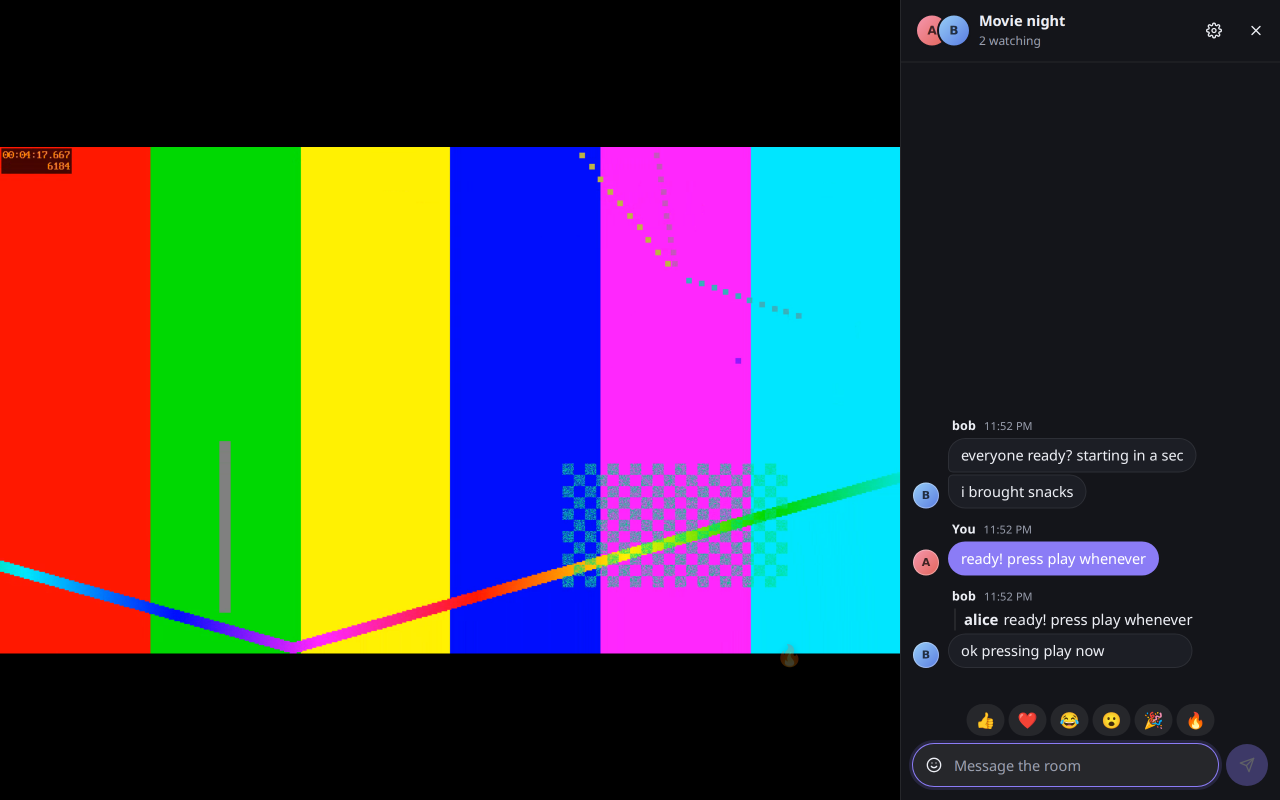
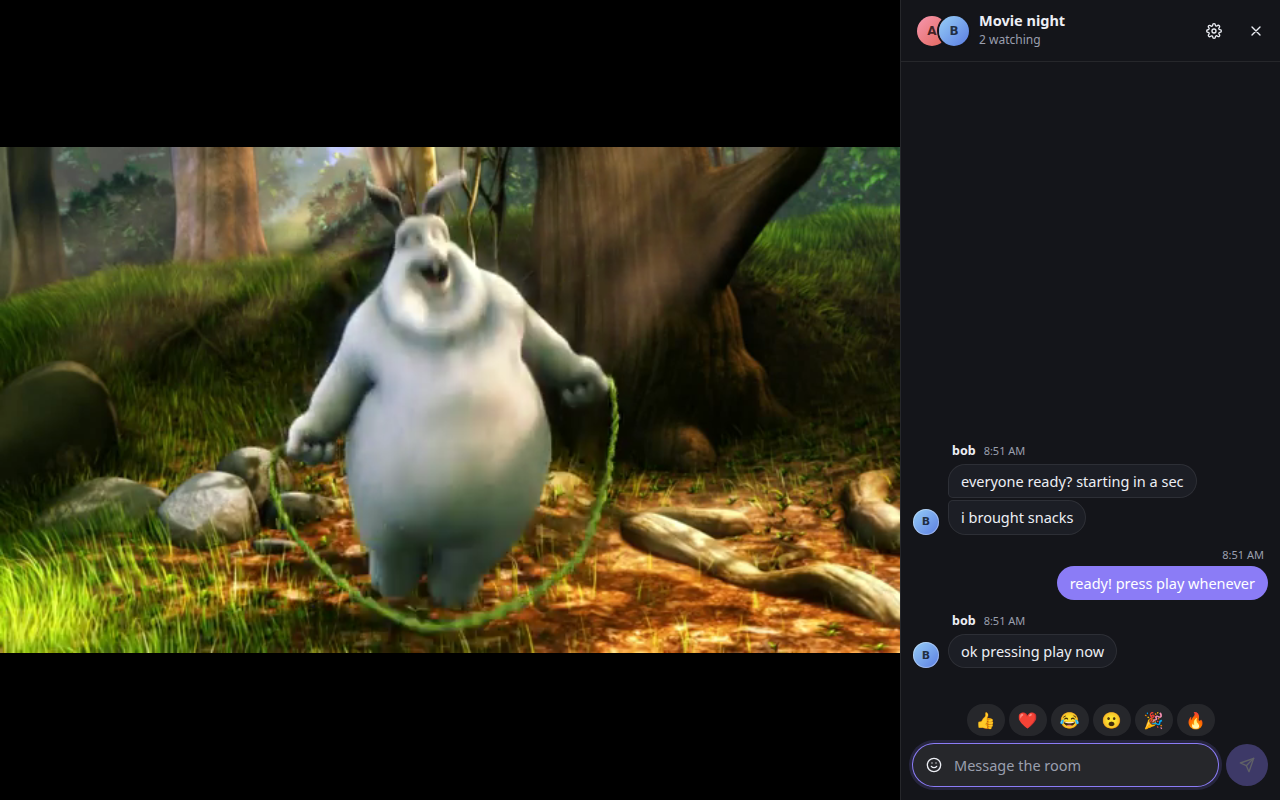
docs: retake README screenshots with a free-license film
The screenshot script now plays the first movie in the library and
leaves the SyncPlay group after each shot so chat history does not pile up.
Big Buck Bunny is credited under CC BY 3.0.

diff --git a/README.md b/README.md
@@ -10,6 +10,8 @@ Chat for Jellyfin SyncPlay watch parties. It lives inside Jellyfin Web, uses the
 | --- | --- |
 | ![JellyChat in the Violet theme, docked next to the player](assets/screenshot-violet.png) | ![JellyChat in the Glass theme, floating over the player](assets/screenshot-glass.png) |
 
+Film: "Big Buck Bunny", (c) 2008 Blender Foundation, [CC BY 3.0](https://creativecommons.org/licenses/by/3.0/).
+
 ## Features
 
 - Room chat with replies, copy, jump-to-original and typing indicators.
